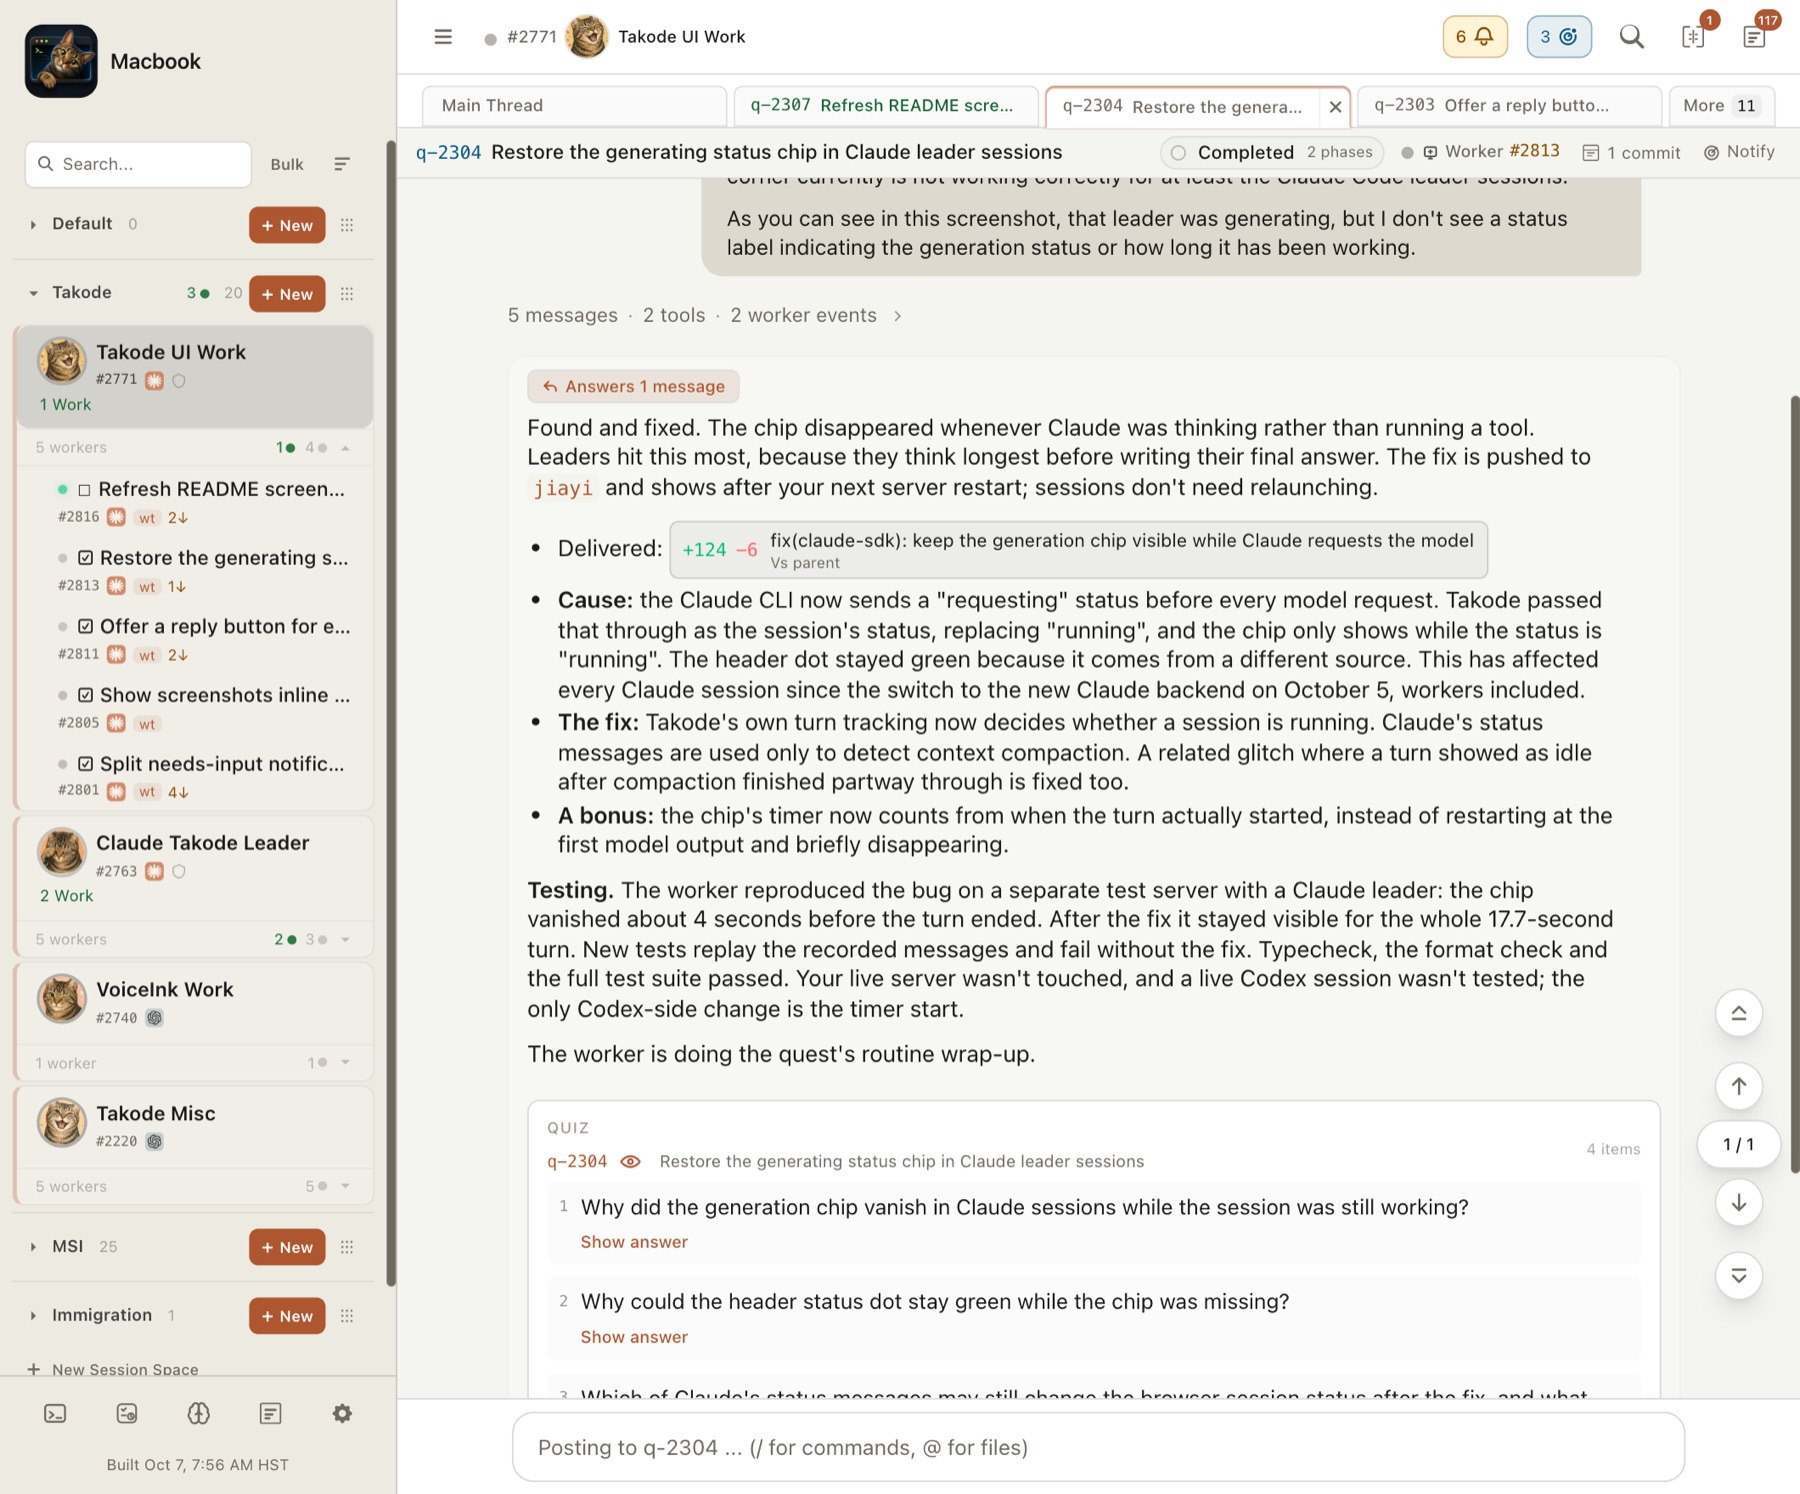
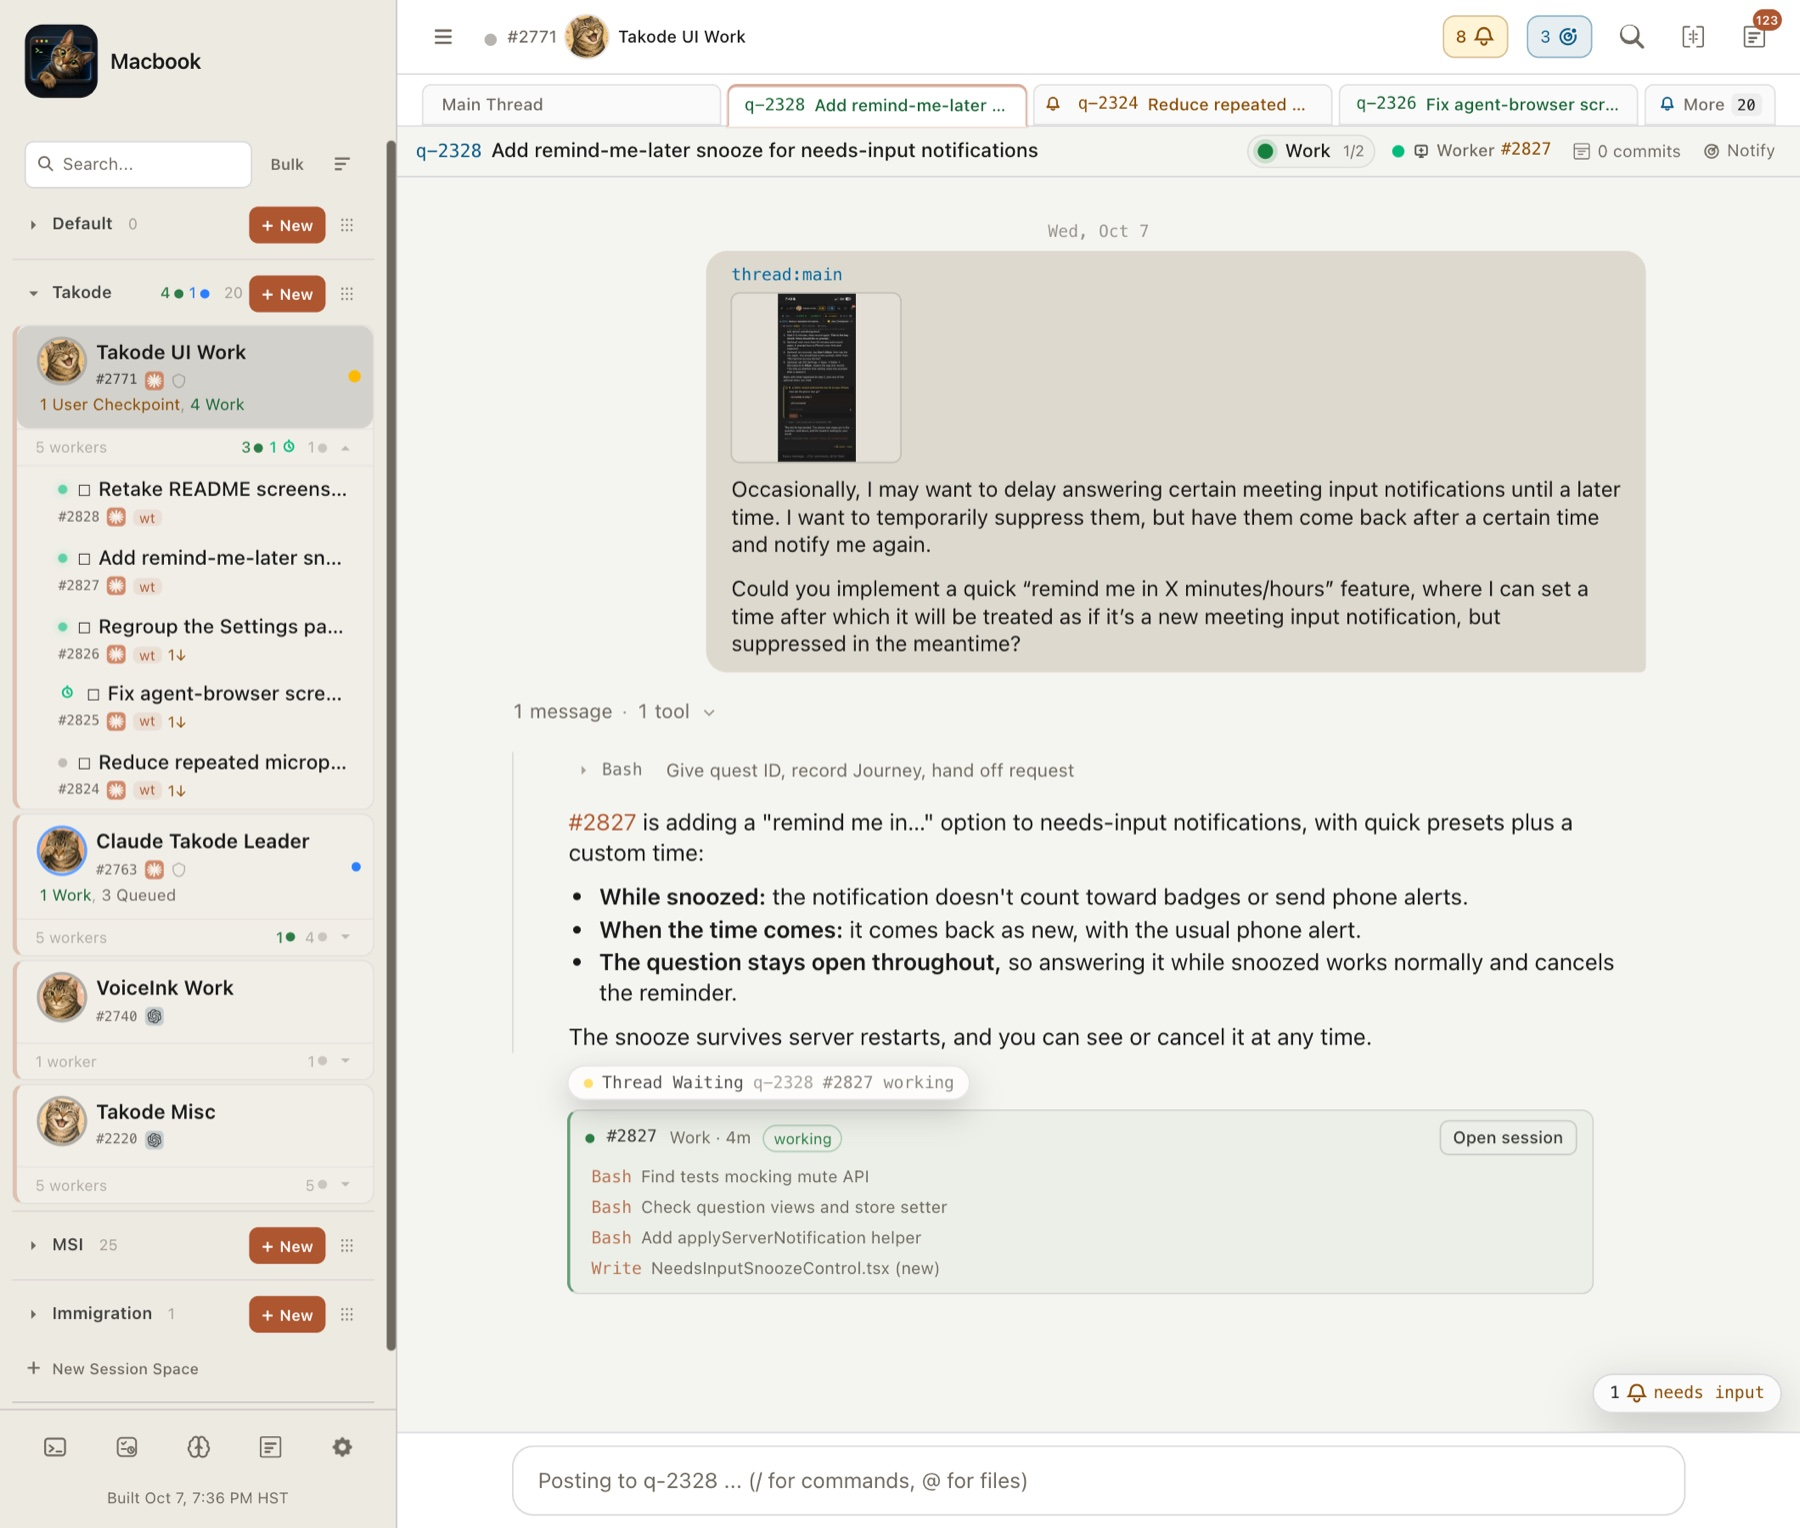
docs(readme): retake hero, live worker, decision and Work Board screenshots
Light-theme shots from the live app: a hero showing a leader with its
running workers and a live worker card, a light live worker card, a
clean decision card under "Decide when asked", and a Work Board with
queued quests waiting on a running one under "Batches of quests".

diff --git a/README.md b/README.md
@@ -1,5 +1,5 @@
 <p align="center">
-  <img src="docs/screenshots/readme-hero.jpg" alt="A Takode leader session reporting a finished fix, with its worker sessions grouped under it in the sidebar" width="100%" />
+  <img src="docs/screenshots/readme-hero.jpg" alt="A Takode leader's quest tab showing the user's request, the leader's dispatch summary and a live card of the worker's latest steps, with the leader's five running workers grouped under it in the sidebar" width="100%" />
 </p>
 
 <h1 align="center">Takode</h1>
@@ -28,10 +28,14 @@ One agent in one terminal is easy to follow. Ten agents across five tabs is not:
 **1. Ask.** Describe a bug, paste a screenshot, or point at an existing quest. The leader writes it up as a quest, dispatches a worker in its own worktree, and keeps your conversation in a tab for that quest. A live card shows the worker's latest steps without opening its session.
 
 <p align="center">
-  <img src="docs/screenshots/readme-live-worker.jpg" alt="A leader's quest tab: the user's bug report with a screenshot, the leader's dispatch note, and a live card showing the worker's latest steps" width="100%" />
+  <img src="docs/screenshots/readme-live-worker.jpg" alt="A leader's quest tab: the user's request with a screenshot, the leader's dispatch note, and a live card showing the worker's latest steps" width="100%" />
 </p>
 
 **2. Decide when asked.** If the work needs your call (a design choice, an approval, a missing detail), the leader asks with suggested replies. Everything else, such as follow-ups, reviews, and retries, happens between agents.
+
+<p align="center">
+  <img src="docs/screenshots/readme-decision.jpg" alt="A leader asking the user to test a fix on their phone, with numbered steps and a question card offering two suggested replies or a free-text answer" width="90%" />
+</p>
 
 **3. Review the result.** The leader reports what changed and why, links the exact commits, and attaches a short quiz so you can check you understood the fix. Each commit opens in a compact diff view.
 
@@ -45,6 +49,11 @@ Takode's main job is keeping many sessions manageable:
 
 - **Leaders and their workers.** Leaders herd workers, receive their events, and can message, interrupt, or archive them. The sidebar groups each team together.
 - **Batches of quests.** Hand a leader a whole list of tasks. It queues them on its Work Board, holds each one until a worker is free or the quests it depends on are done, then starts it.
+
+<p align="center">
+  <img src="docs/screenshots/readme-work-board.jpg" alt="A leader's Work Board with one quest in progress and three queued quests waiting for it to finish" width="90%" />
+</p>
+
 - **Jump in or delegate.** Every worker is still an ordinary session you can open and talk to directly. Or tell the leader, and it passes your instructions along with the context the worker needs.
 - **Session spaces.** Keep separate areas of your life or work apart, each with its own sessions and memory.
 - **Worktree isolation.** Workers get their own git worktree and branch, so parallel changes do not collide; finished worktrees are cleaned up safely.
